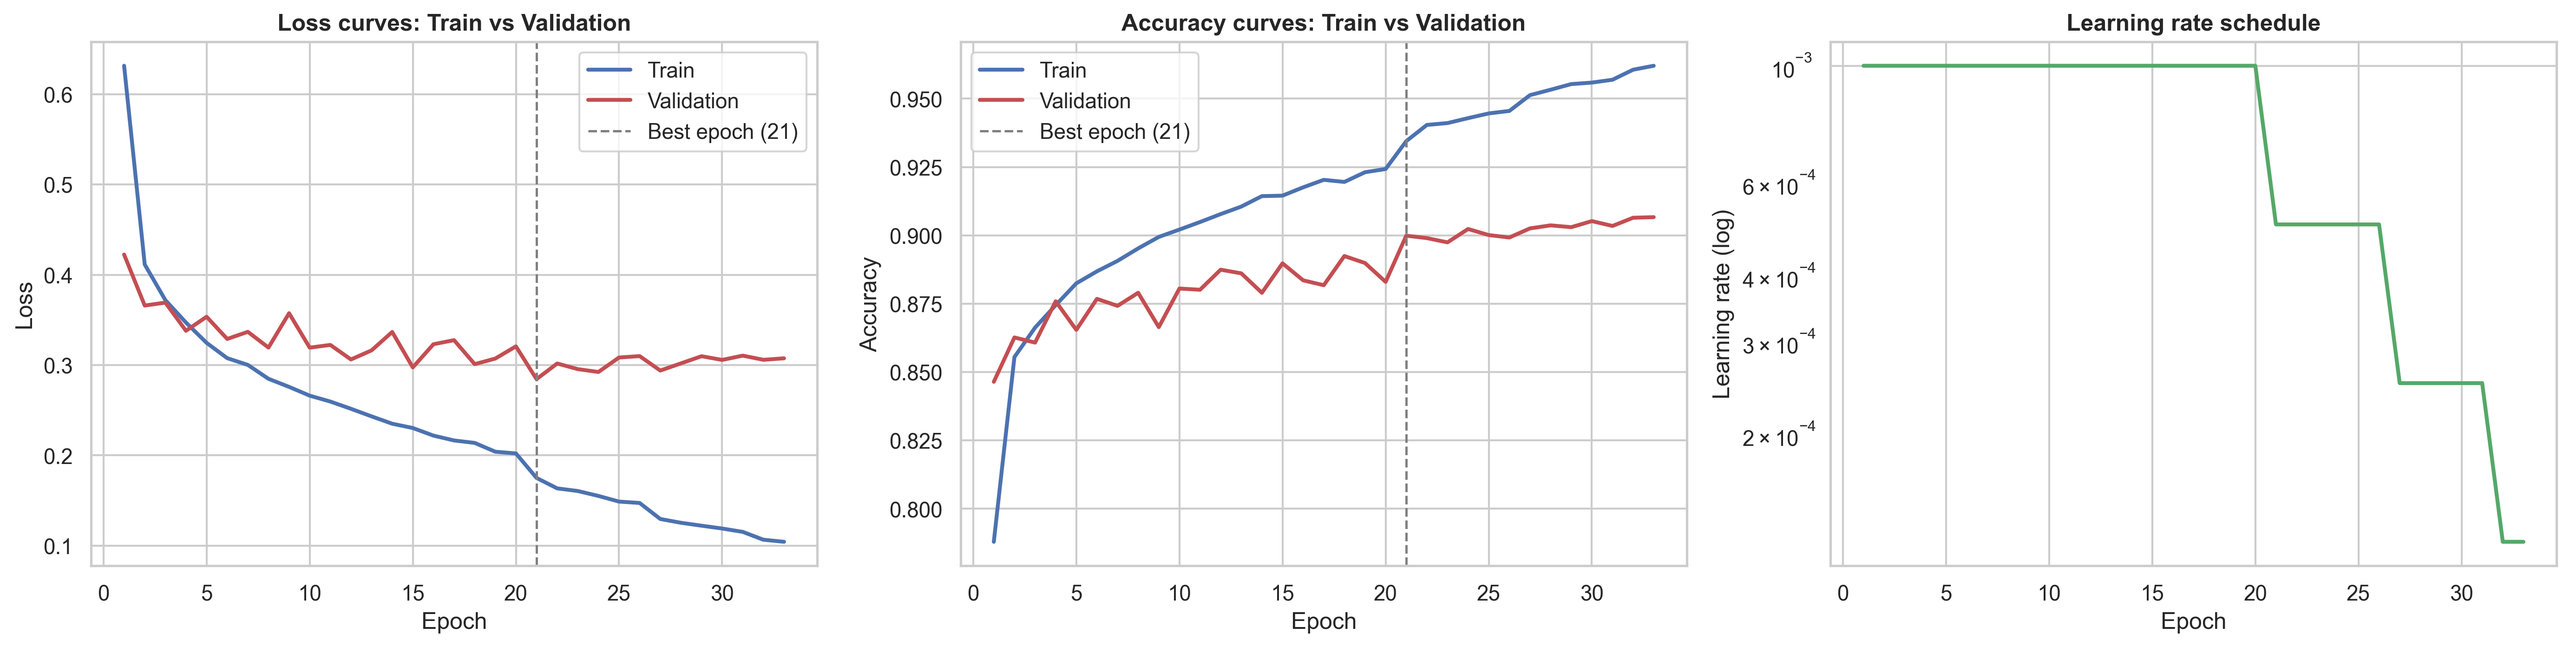
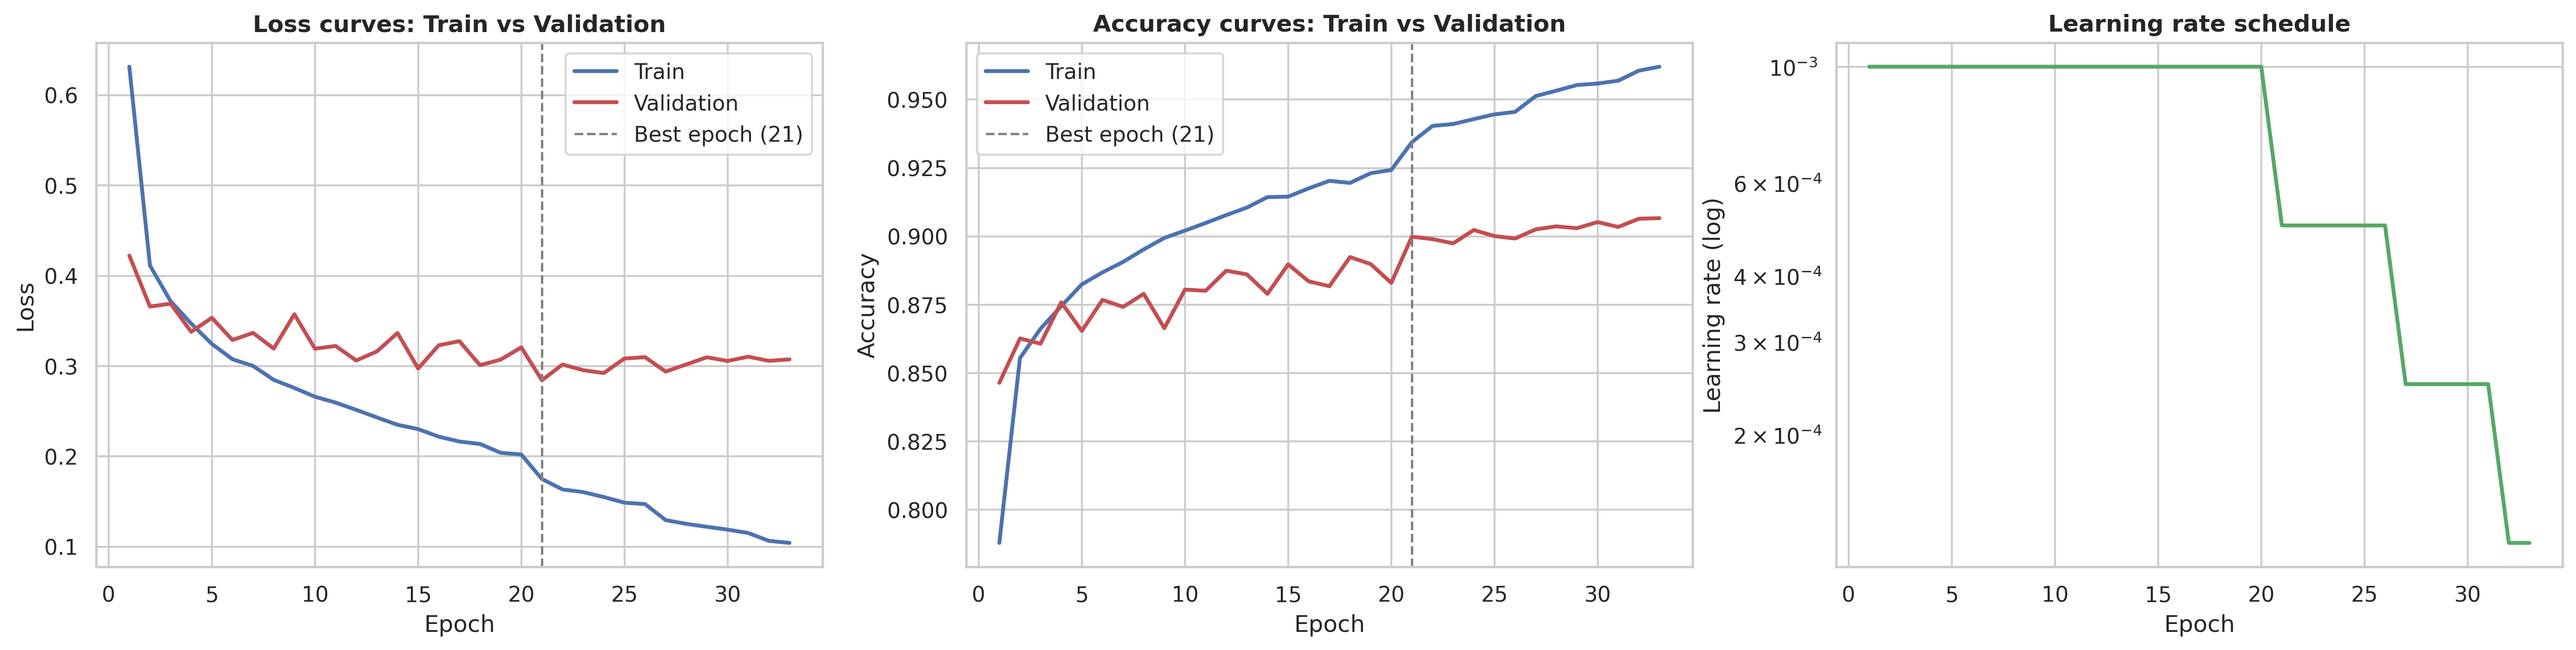
chore: final review, add tests, CI, license and tooling

diff --git a/README.md b/README.md
@@ -176,7 +176,7 @@ Loss and accuracy for train vs. validation, with the best epoch marked and the l
 
 ### Confusion matrix
 
-Each row shows how the images of one true class were classified (values are shares of that class). Errors concentrate on classes that genuinely look alike, mainly the upper-body garments (Shirt, T-shirt/top, Pullover, Coat).
+Each row shows how the images of one true class were classified (values are shares of that class). Errors concentrate on classes that genuinely look alike, all of them upper-body garments. The five most frequent confusions are Shirt → T-shirt/top (109 images), Coat → Pullover (101), Shirt → Pullover (98), T-shirt/top → Shirt (94), and Shirt → Coat (82).
 
 <p align="center">
   <img src="reports/figures/09_confusion_matrix_normalized.png" alt="Normalized confusion matrix on the test set" width="75%">
@@ -187,6 +187,8 @@ Each row shows how the images of one true class were classified (values are shar
 <p align="center">
   <img src="reports/figures/10_per_class_metrics.png" alt="Per-class precision, recall and F1-score" width="90%">
 </p>
+
+Trouser (F1 0.98), Bag (0.98), Sandal (0.97), Ankle boot (0.96), and Sneaker (0.95) are classified almost perfectly. **Shirt is the hardest class** (F1 0.72, recall 66.7%), followed by Coat (0.82), Pullover (0.82), and T-shirt/top (0.85). Macro-averaged F1 is 0.894.
 
 The model's most confident mistakes are often ambiguous even to a human eye:
 
